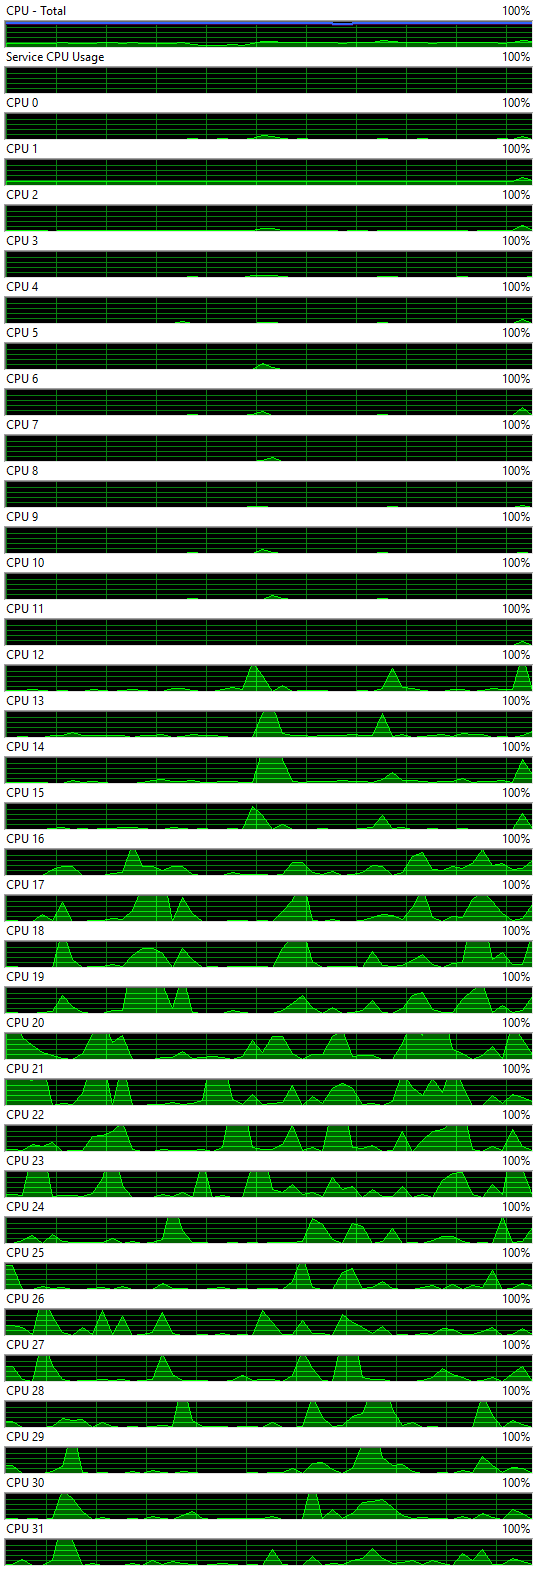
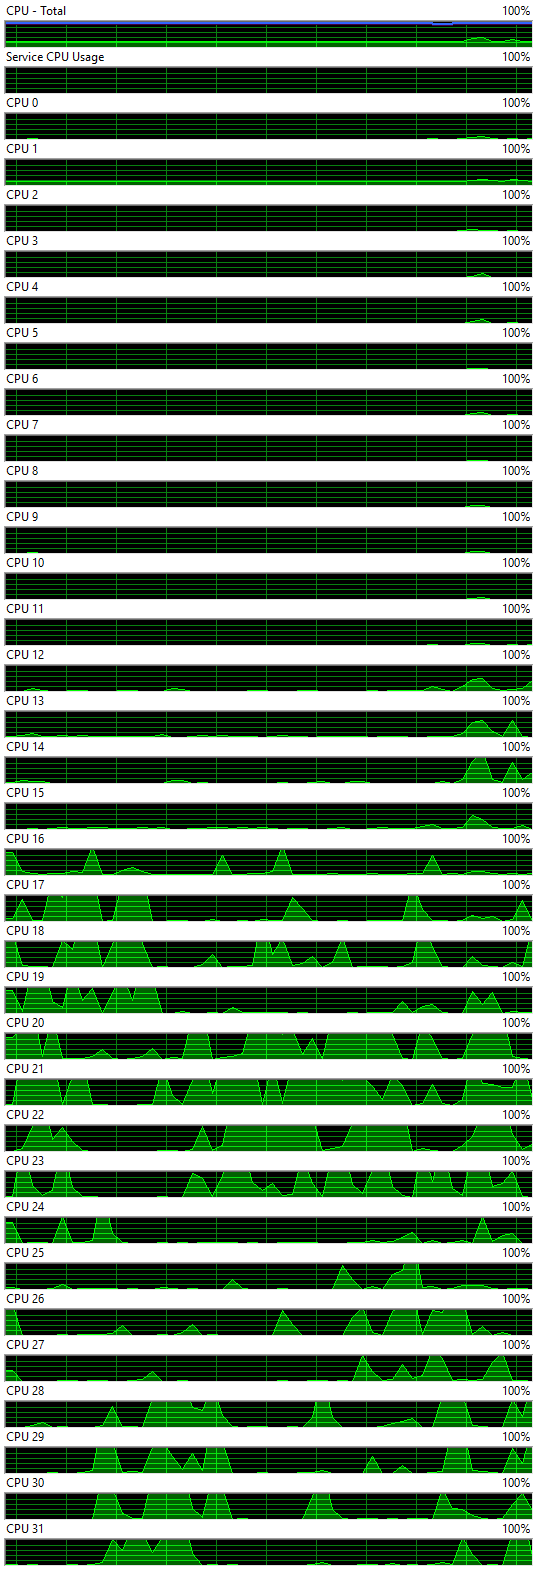
README: sample run and screenshots recaptured from the published 1.3.2
- The sample is a verbatim one-liner run of v1.3.2 on Windows' default
  Balanced plan, so it ends with the new summary line "no core is parked"
- bench/results/testbed-checks holds that run, its -Undo and the check that
  Balanced went back to Windows' defaults
- New Resource Monitor captures of all 32 logical CPUs, seconds before the
  run and a minute after it

diff --git a/README.md b/README.md
@@ -89,12 +89,12 @@ A full one-liner run on our i9-14900F on Windows' default Balanced plan, started
 Script saved to: C:\Users\you\cpu-parking-disabler.ps1 (the undo file will be written next to it)
 
 ===================================
-  CPU PARKING DISABLER v1.3.1
+  CPU PARKING DISABLER v1.3.2
 ===================================
 
 CPU           : Intel(R) Core(TM) i9-14900F  (24 cores / 32 threads)
 Power scheme  : Balanced
-Parked cores  : 25 of 32
+Parked cores  : 27 of 32
 
   Setting        AC   DC Target
   CPMINCORES      4    4    100  -> (core parking min cores, E-cores / all cores)
@@ -102,7 +102,7 @@ Parked cores  : 25 of 32
   PERFEPP        33   50      0  -> (energy performance preference, E-cores / all cores)
   PERFEPP1       33   50      0  -> (energy performance preference, P-cores on hybrid CPUs)
 
-Undo file saved: C:\Users\you\parking_undo_20261107_171346.json (revert with -Undo)
+Undo file saved: C:\Users\you\parking_undo_20261107_222735.json (revert with -Undo)
 
 Applying...
   [OK ] CPMINCORES   AC   4 -> 100  DC   4 -> 100
@@ -114,10 +114,10 @@ Applying...
   DONE
 ===================================
 
-Parked cores  : 25 of 32 -> 0 of 32
+Parked cores  : 27 of 32 -> 0 of 32
 
 Applied to power scheme 'Balanced':
-  - CPU parking: DISABLED (all cores always active)
+  - CPU parking: DISABLED (no core is parked)
   - EPP: 0 (max performance)
 
 Revert any time with: powershell -ExecutionPolicy Bypass -File "C:\Users\you\cpu-parking-disabler.ps1" -Undo
@@ -131,7 +131,7 @@ Resource Monitor, CPU tab, on the same PC: seconds before the run above and a mi
 
 | Before | After |
 |--------|-------|
-| ![Resource Monitor on the default Balanced plan: 28 of the 32 logical CPUs are marked Parked](assets/before.png) | ![The same view after the script: none of the 32 logical CPUs is marked Parked](assets/after.png) |
+| ![Resource Monitor on the default Balanced plan: 27 of the 32 logical CPUs are marked Parked](assets/before.png) | ![The same view after the script: none of the 32 logical CPUs is marked Parked](assets/after.png) |
 
 > Open Resource Monitor → CPU tab to check your own PC: a parked logical CPU is marked **Parked**.
 

diff --git a/bench/results/README.md b/bench/results/README.md
@@ -172,7 +172,7 @@ Windows gives it the same 4% minimum as Balanced, and at idle it parked 31 of 32
   woke up.
 - `status-balanced-<n>.txt`, `status-high-performance-<n>.txt`: the output of `cpu-parking-disabler.ps1 -Status` after
   the samples of each plan in each round, from a development build of the script.
-- `sample-run.txt`: the run quoted in the main README. The published v1.3.1 one-liner, started from an admin terminal
+- `sample-run.txt`: the run quoted in the main README. The published v1.3.2 one-liner, started from an admin terminal
   on Balanced after 120 s of idle. The user folder is shown as `you`.
 - `sample-undo.txt`: `-Undo` of that run, from the saved copy of the script.
 - `undo-check.txt`: Balanced right after that undo. No user value is left for the four settings (`reg query`),
